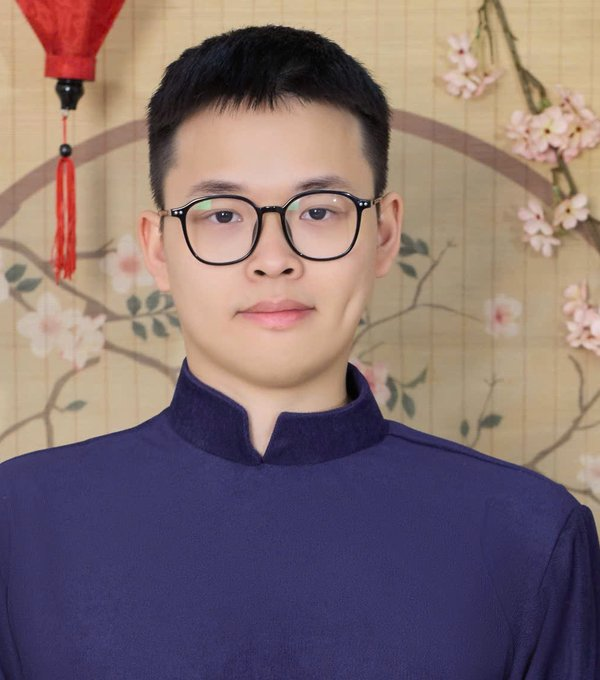
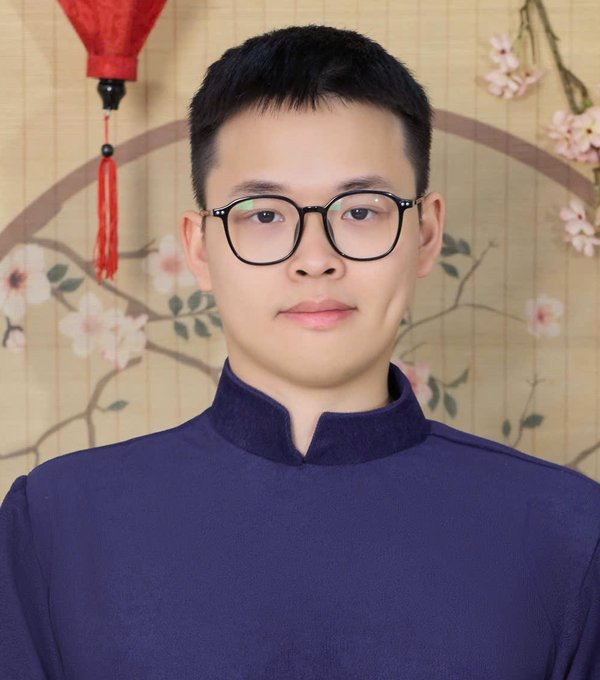
Tune hero photo, background clarity and About proportions
Shift the portrait crop so the subject sits centred rather than left. Rebuild the hero background with a much lighter blur and raise its opacity so it reads, with a dark card behind the text for contrast. About now shows the photo whole, with the right column matching the photo width.

diff --git a/index.html b/index.html
@@ -41,12 +41,12 @@ nav{display:flex; align-items:center; justify-content:space-between; height:74px
 
 /* HERO / HOME: gray-blue band */
 .hero{position:relative; background:linear-gradient(160deg,#33414c,#28323a); padding:78px 0 90px; overflow:hidden}
-.hero-bg{position:absolute; inset:0; z-index:0; background:url('hero-bg.jpg') center 35%/cover no-repeat; opacity:.45}
+.hero-bg{position:absolute; inset:0; z-index:0; background:url('hero-bg.jpg') center 40%/cover no-repeat; opacity:.9}
 .hero:before{content:""; position:absolute; inset:0; z-index:1;
   background:radial-gradient(1100px 460px at 82% 8%, rgba(21,195,154,.16), transparent 60%); pointer-events:none}
 .hero:after{content:""; position:absolute; inset:0; z-index:1; pointer-events:none;
-  background:linear-gradient(100deg,rgba(38,48,56,.90) 0%,rgba(38,48,56,.58) 52%,rgba(38,48,56,.30) 100%)}
-.hcard{position:relative; z-index:2}
+  background:linear-gradient(100deg,rgba(38,48,56,.55) 0%,rgba(38,48,56,.30) 55%,rgba(38,48,56,.18) 100%)}
+.hcard{position:relative; z-index:2; background:rgba(33,42,50,.72); padding:46px 46px 50px; border-radius:2px}
 .hgrid{display:grid; grid-template-columns:1fr 320px; gap:56px; align-items:center}
 .bubble{position:relative; display:inline-block; background:var(--accent); color:#08110d; font-weight:700; padding:8px 20px; border-radius:4px; font-size:1.05rem}
 .bubble:after{content:""; position:absolute; left:26px; bottom:-9px; border:9px solid transparent; border-top-color:var(--accent); border-bottom:0}
@@ -78,10 +78,11 @@ nav{display:flex; align-items:center; justify-content:space-between; height:74px
 .sec-head .line{width:56px; height:3px; background:var(--accent); margin:16px auto 0}
 
 /* about: full-bleed split, photo left / rotating panels right */
-.about-split{display:grid; grid-template-columns:1fr 1fr; align-items:stretch; min-height:660px; background:#f7f9fa}
-.about-img{position:relative; overflow:hidden; background:#28323a}
-.about-img img{width:100%; height:100%; object-fit:cover; object-position:center 16%; display:block}
-.about-body{display:flex; align-items:center; padding:72px 6vw 72px 104px}
+.about-sec{background:#f7f9fa; padding:64px 26px}
+.about-split{display:grid; grid-template-columns:1fr 1fr; align-items:stretch; max-width:1000px; margin:0 auto}
+.about-img{position:relative; overflow:hidden; background:#28323a; aspect-ratio:937/1280}
+.about-img img{width:100%; height:100%; object-fit:cover; display:block}
+.about-body{display:flex; align-items:center; padding:40px 34px 40px 76px; background:#fff}
 .about-body p{color:var(--muted)}
 .about-body h2{color:var(--slate); font-size:clamp(1.55rem,2.6vw,2.05rem); margin-bottom:16px; font-weight:400}
 .about-body h2 b{font-weight:700}
@@ -175,9 +176,10 @@ footer{border-top:1px solid var(--line); padding:26px 0; text-align:center; colo
 @media(max-width:900px){
   .hgrid{grid-template-columns:1fr; gap:34px}
   .photo{order:-1}
-  .about-split{grid-template-columns:1fr; min-height:0}
-  .about-img{height:420px}
-  .about-body{padding:46px 26px 54px}
+  .about-sec{padding:40px 0}
+  .about-split{grid-template-columns:1fr; max-width:520px}
+  .about-body{padding:40px 26px 46px}
+  .hcard{padding:32px 24px 36px}
   .ac-dots{position:static; transform:none; flex-direction:row; margin-top:26px; padding:4px}
   .svc{grid-template-columns:1fr 1fr}
   .modal-card{grid-template-columns:1fr; max-height:92vh}
@@ -246,9 +248,9 @@ footer{border-top:1px solid var(--line); padding:26px 0; text-align:center; colo
 
   <!-- ABOUT -->
   <section class="page" id="about" data-page="about">
-    <div class="about-split">
+    <div class="about-sec"><div class="about-split">
 
-      <!-- LEFT: full-bleed photo -->
+      <!-- LEFT: photo, shown whole -->
       <div class="about-img">
         <img src="me.jpg" alt="Le Nam Phong on QUT graduation day in Brisbane">
       </div>
@@ -292,7 +294,7 @@ footer{border-top:1px solid var(--line); padding:26px 0; text-align:center; colo
         </div>
       </div>
 
-    </div>
+    </div></div>
   </section>
 
   <!-- SERVICES / QUT PROJECTS -->
